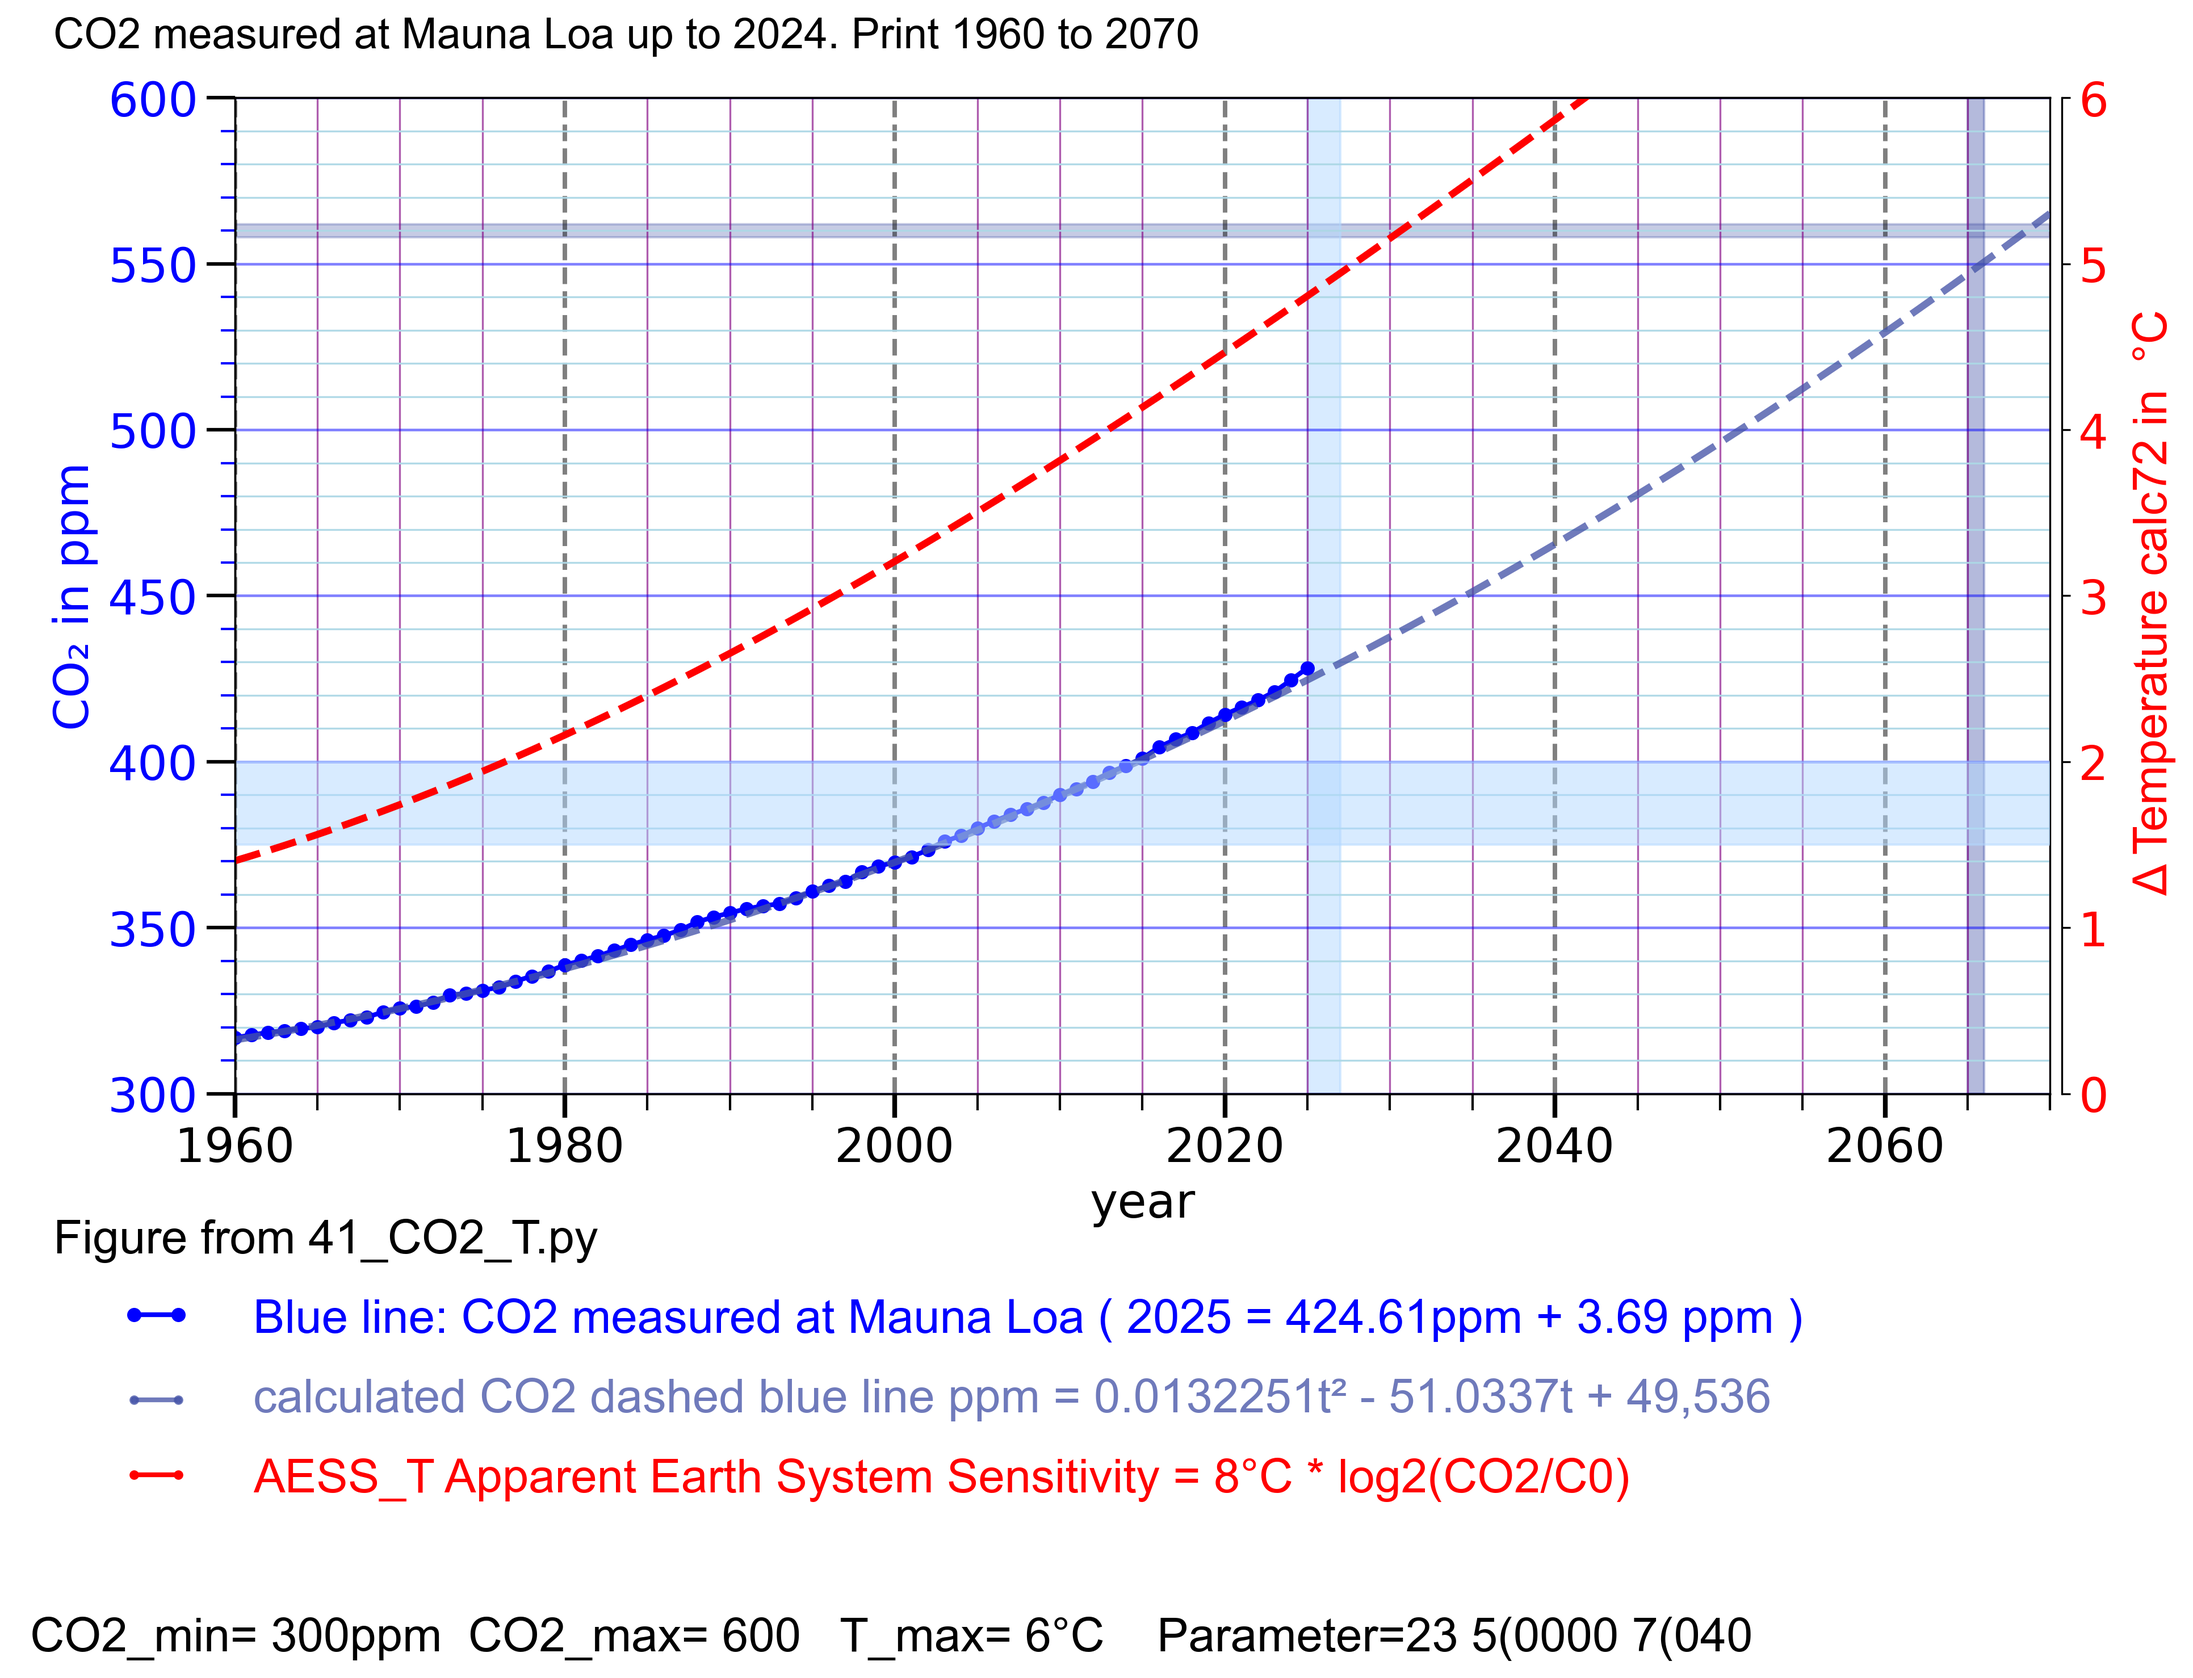
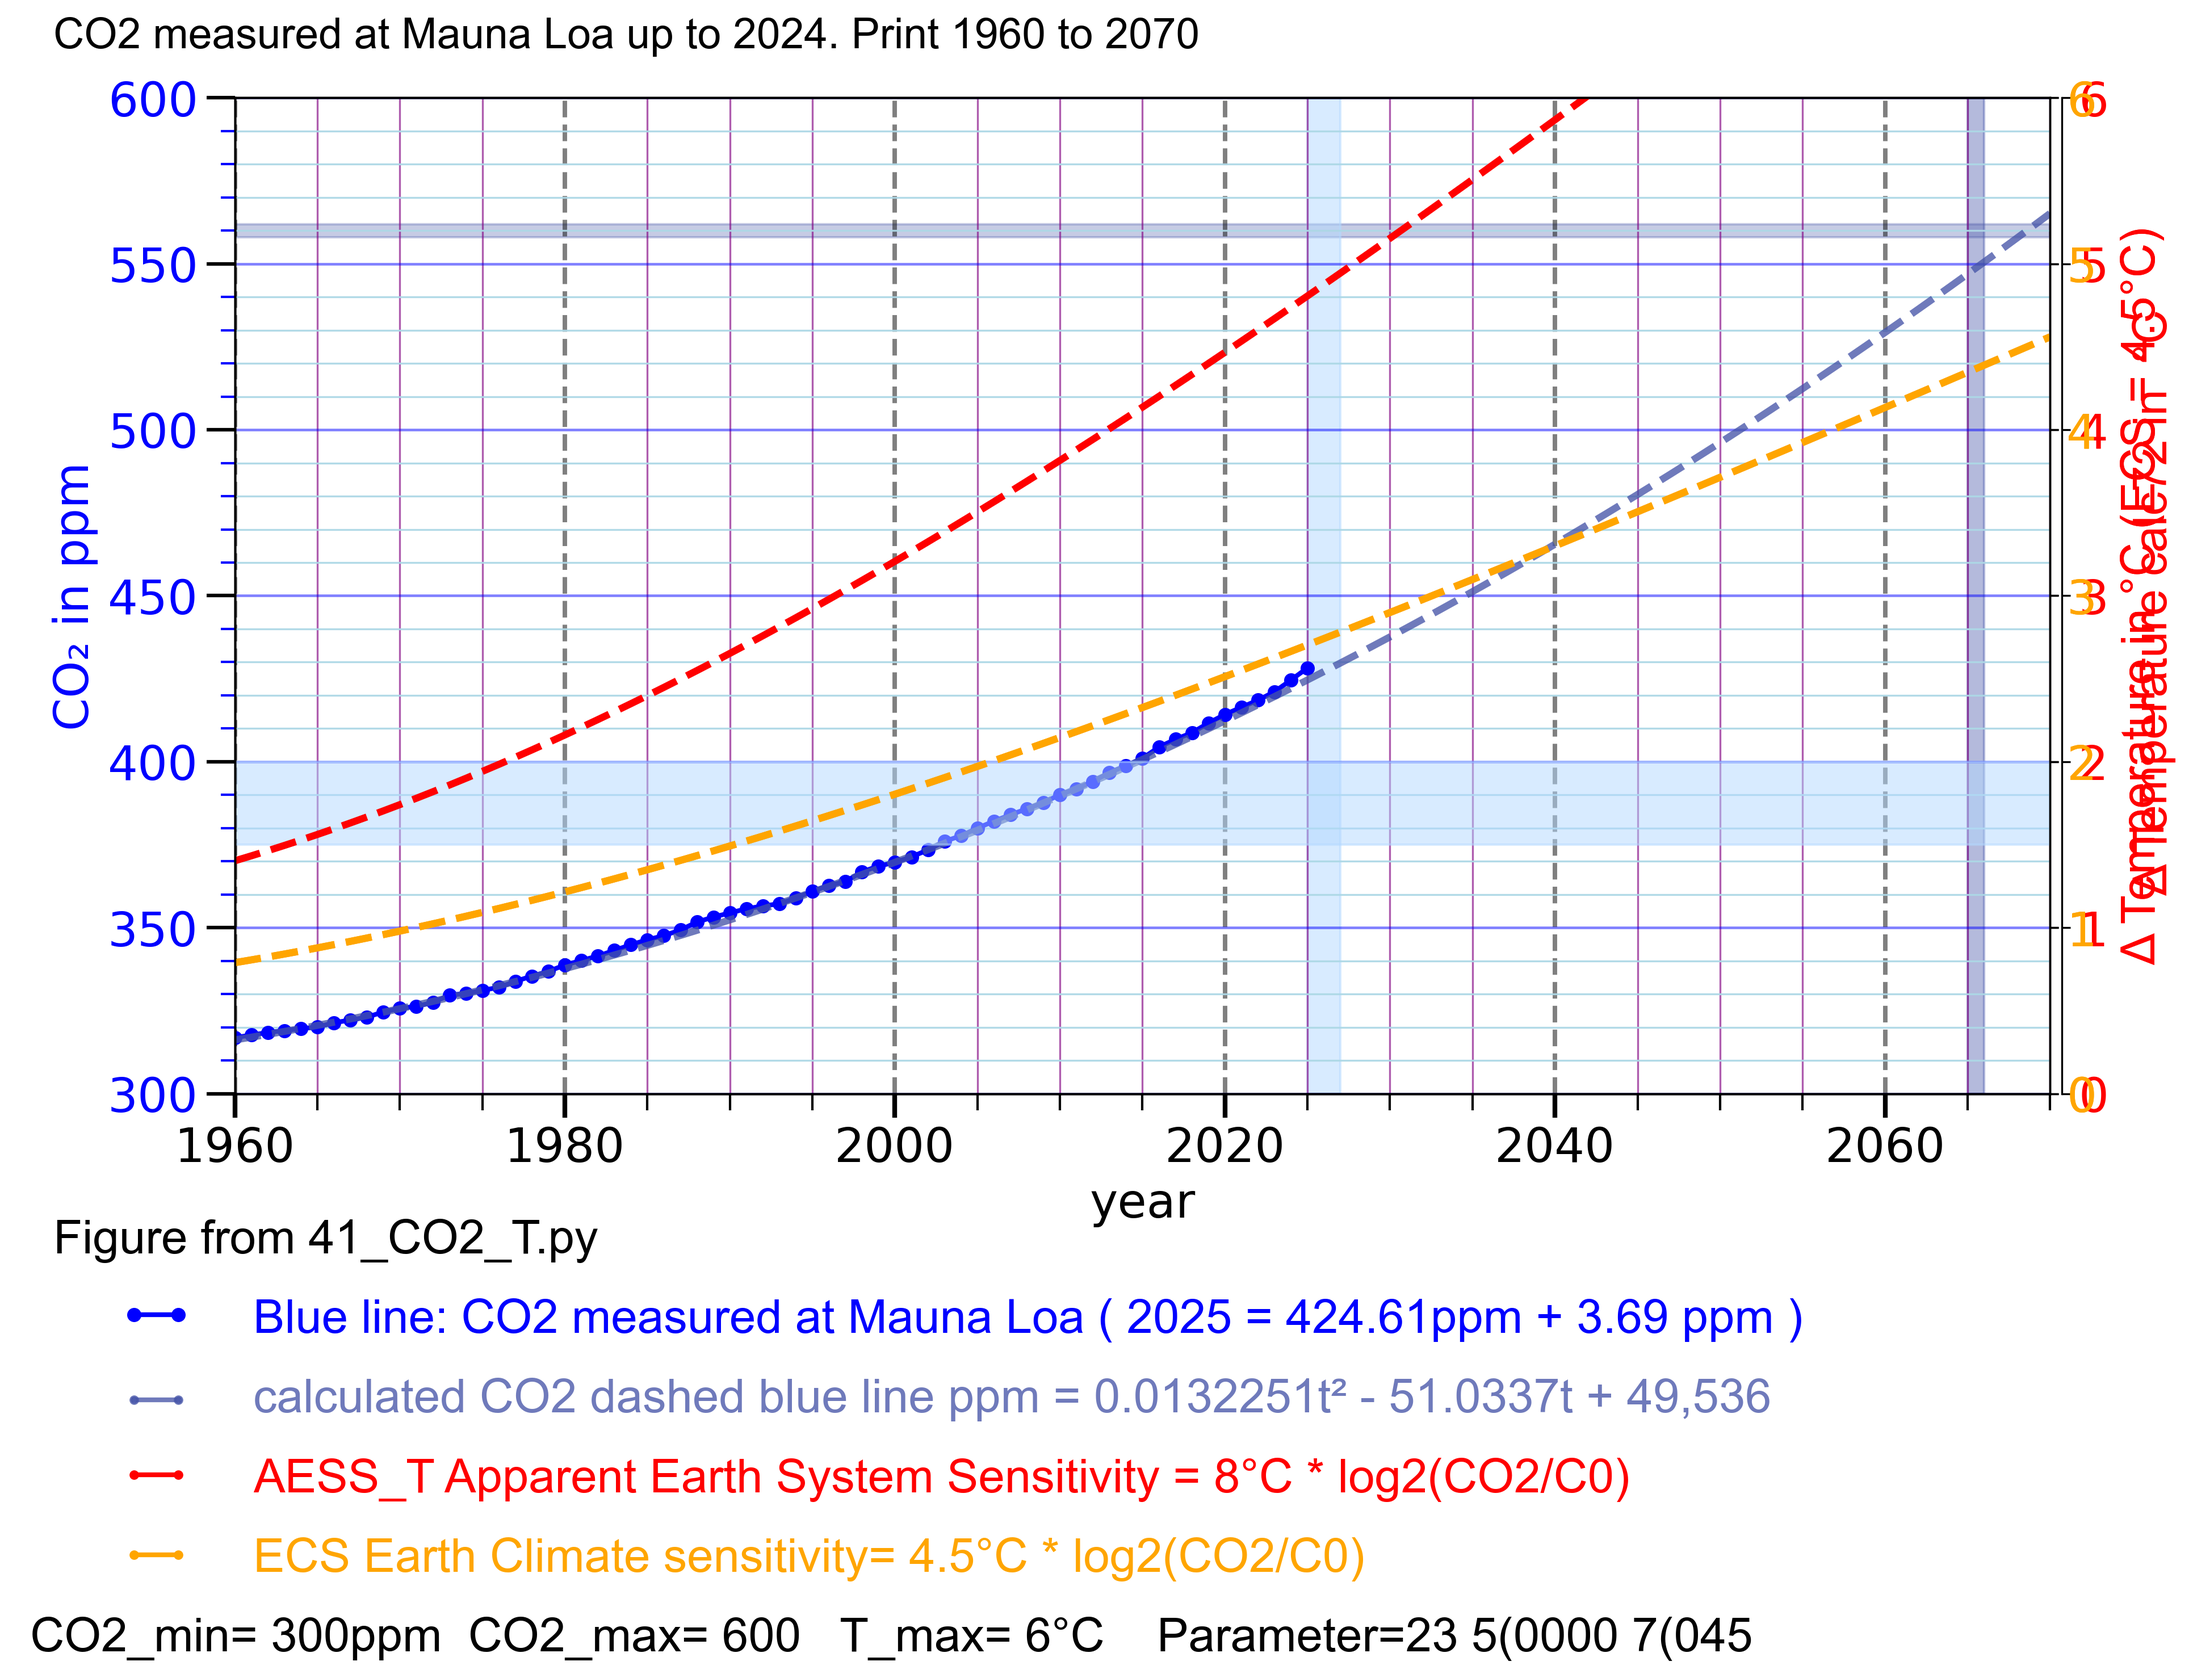
41v4_CO2_T.py 72 T

diff --git a/41_CO2_T.py b/41_CO2_T.py
@@ -1,4 +1,4 @@
-# 41v3_CO2_T.py 72 T
+# 41v4_CO2_T.py 72 T
 # Thomas Boettcher
 # part 1 configure 
 # part 2 plot CO2 Mauna Loa
@@ -44,7 +44,7 @@ c71 = "red" # plot71 color c71 = "green"
 plot72_AESS_T= 4 # 5,0 apparent Earth system sensitivity (AESS=7.7°C)
 if plot71_temperature < 1:    c72 = "red" # plot72 color
 else:                         c72 = "#DD3646A3" # plot72 color
-plot73_ECS_T= 0 # 6,5 #  Earth Climate sensitivity (ECS=4.5°C)
+plot73_ECS_T= 5 # 6,5 #  Earth Climate sensitivity (ECS=4.5°C)
 if plot71_temperature < 1 and plot72_AESS_T < 1:
    c73 = "red" # plot73 color
 else:   
@@ -360,19 +360,6 @@ if plot71_temperature > 0:
    ax71.plot(df7["Year71"], df7["Modeled71"], '--', label="T formula CO2=  K6", color=c71, linewidth=3)
    ax71.tick_params(axis="y", labelcolor=c71)
    ax71.set_ylim(y_Tmin, y_Tmax) # scale
-# 7.1.7 plot71 Achse und Beschriftung
-if plot71_temperature > 0:
-   if plot54_Glen_delta_on > 2:
-      ax71.spines.right.set_position(("outward", 50))
-   else:
-      ax71.spines.right.set_position(("outward", 5))
-   ax71.set_ylabel (
-         "Δ Temperature in °C ",
-         color=c71,
-         fontname="Arial",fontsize=20,
-         labelpad=10   # smaller = closer to y axis
-   )
-   ax71.tick_params(axis="y", labelcolor=c71, labelsize=20)
 # end 7.1 
 
 
@@ -437,14 +424,14 @@ df73 = pd.DataFrame({
        "Year73": years73,
        "Modeled73": T_73values })
 # 7.3.6 plot_ax73_temperature
-if plot73_ECS_T > 0:
+if plot73_ECS_T > 20:
    ax73 = ax1.twinx()  # twinx(): Shares the same x-axis Adds a new y-axis on the right
    ax73.plot(df73["Year73"], df73["Modeled73"], '--', label="T formula CO2=  K73", color=c73, linewidth=3)
    ax73.tick_params(axis="y", labelcolor=c73)
    ax73.set_ylim(y_Tmin, y_Tmax) # scale
    if plot71_temperature < 1: # make y axis right only if not exist
-      ax73.yaxis.set_major_locator(MultipleLocator(y_Tmayor_ticks))   # Hauptstriche
-      ax73.yaxis.set_minor_locator(MultipleLocator(y_Tminor_ticks))   # Nebenstriche
+      #ax73.yaxis.set_major_locator(MultipleLocator(y_Tmayor_ticks))   # Hauptstriche
+      #ax73.yaxis.set_minor_locator(MultipleLocator(y_Tminor_ticks))   # Nebenstriche
       ax73.minorticks_off()
       ax73.tick_params(axis='y', labelsize=20) # numbers on right y axis size 20
       ax73.set_ylabel (
@@ -459,8 +446,9 @@ if plot73_ECS_T > 0:
 # 8.2 print the headline above the plot
 # 8.3 print the left y axis 
 # 8.4 print the vertical lines CO2=constant
-# 8.5 print the x axis 
-# 8.6 print the horizontal lines year 2026
+# 8.5 print the right y axis
+# 8.6 print the x axis 
+# 8.7 print the horizontal lines year 2026
 
 # 8.1 scale the plot area
 # 8.1.2 scale the x axis
@@ -565,14 +553,46 @@ if plot71_temperature > 0:
 elif plot72_AESS_T > 0:
    ax72.axhspan(1.5, 2.0, color="#B3D9FF", alpha=0.5, zorder=0) # color="lightblue" 2°C streifen
 
+# 8.5 print the right y axis
+# 8.5.1 plot71 Achse und Beschriftung
+if plot71_temperature > 0:
+   if plot54_Glen_delta_on > 2:
+      ax71.spines.right.set_position(("outward", 50))
+   else:
+      ax71.spines.right.set_position(("outward", 5))
+   ax71.set_ylabel (
+         "Δ Temperature in °C ",
+         color=c71,
+         fontname="Arial",fontsize=20,
+         labelpad=10   # smaller = closer to y axis
+   )
+   ax71.tick_params(axis="y", labelcolor=c71, labelsize=20)
+
+elif plot73_ECS_T > 0:
+   ax73 = ax1.twinx()  # twinx(): Shares the same x-axis Adds a new y-axis on the right
+   ax73.plot(df73["Year73"], df73["Modeled73"], '--', label="T formula CO2=  K73", color=c73, linewidth=3)
+   ax73.tick_params(axis="y", labelcolor=c73)
+   ax73.set_ylim(y_Tmin, y_Tmax) # scale
+   if plot71_temperature < 1: # make y axis right only if not exist
+      #ax73.yaxis.set_major_locator(MultipleLocator(y_Tmayor_ticks))   # Hauptstriche
+      #ax73.yaxis.set_minor_locator(MultipleLocator(y_Tminor_ticks))   # Nebenstriche
+      ax73.minorticks_off()
+      ax73.tick_params(axis='y', labelsize=20) # numbers on right y axis size 20
+      ax73.set_ylabel (
+         "Δ Temperature in °C (ECS = 4.5°C)",
+         color=c71,
+         fontname="Arial",fontsize=20,
+         labelpad=10   # smaller = closer to y axis
+       )
 
 
-# 8.5 print the x axis 
-# 8.5.1 print year below the year numbers 
+
+# 8.6 print the x axis 
+# 8.6.1 print year below the year numbers 
 ax1.set_xlabel("year", fontsize=20 )
 plt.xticks(fontsize=20)
 ax1.tick_params(axis="x", labelcolor="black", labelsize=20) # 1960 2020 Achsenbeschriftung
-# 8.5.2 scale the x axis major 20 years
+# 8.6.2 scale the x axis major 20 years
 if x_end - x_anf < 5:
    x_mayor_ticks = 1
    x_minor_ticks = 0.5
@@ -588,27 +608,30 @@ elif x_end - x_anf < 120:
 else:
    x_mayor_ticks = 50
    x_minor_ticks = 10
-# 8.5.8 scale the x axis major 20 years
+# 8.6.8 scale the x axis major 20 years
 ax1.xaxis.set_major_locator(MultipleLocator(x_mayor_ticks))  # works
 ax1.tick_params(axis='x', which='major', length=10, width=2) # all 20 years
-# 8.5.9 scale the x axis minor 5 years
+# 8.6.9 scale the x axis minor 5 years
 ax1.xaxis.set_minor_locator(MultipleLocator(x_minor_ticks))   # no work
 ax1.tick_params(axis='x', which='minor', length=7,  width=1)
   
-# 8.6 print the horizontal lines year 2026
-# 8.6.1 vertical major grid all 20 years
+# 8.7 print the horizontal lines year 2026
+# 8.7.1 vertical major grid all 20 years
 for line in ax1.get_xgridlines():   # vertical lines
        line.set_color('black')          # vertical color
        line.set_alpha(0.5)
        line.set_linestyle('--')        # optional '--'
        line.set_linewidth(1.9)   # <-- thickness
-# 8.6.2 vertical minorlines all 5 years        
+# 8.7.2 vertical minorlines all 5 years        
 ax1.grid(True, which="minor", axis="x", color="purple", alpha=0.64)   # work vertical 5 years
-# 8.6.3 vertical line at year 2026
+# 8.7.3 vertical line at year 2026
 ax1.axvspan(2025, 2027, color="#B3D9FF", alpha=0.5, zorder=0) # vertical bar'
-# 8.6.4
+# 8.7.4
 ax1.axvspan(2065, 2066, color=c3, alpha=0.4, zorder=0) # vertical bar'
 ax1.axvspan(2174, 2175, color=c3, alpha=0.25, zorder=0) # vertical bar'
+
+
+
 # end part 8
 
 
@@ -627,7 +650,7 @@ plt.text(-0.1, tr1y, text_below1, color="black", fontname="Arial", fontsize=trs,
 
 # 9.2 print line 1 blue Mauna Loa data below the figure
 # 9.2 print line 2 below the plot explainations
-if plot1_CO2_Mauna_Loa == 3: # 8.5.1 legende world data plot1_CO2_Mauna_Loa
+if plot1_CO2_Mauna_Loa == 3: #  legende world data plot1_CO2_Mauna_Loa
    K1_text=" 2 new text )"
    plt.text(tr2x, tr2y, K1_text, color="blue", fontname="Arial", fontsize=18,
    transform=plt.gca().transAxes)
@@ -646,7 +669,7 @@ transform=plt.gca().transAxes)
 
 # 9.3 print line 3 below the plot explainations
 # 9.3.2 print line 3 plot55_population_on marker="s"
-if plot55_population_on == 3: # 8.5.1 legende world data plot1_CO2_Mauna_Loa
+if plot55_population_on == 3: #  legende world data plot1_CO2_Mauna_Loa
    line1 = Line2D([lr2x1, lr2x2], [lr3y, lr3y], # x coords in figure space (0–1)
    transform=fig.transFigure,
    marker="s", markersize=5, color="green", linewidth=2)
@@ -786,7 +809,7 @@ elif plot72_AESS_T == 4:
 
 
 # 9.5.2 print line 5 plot55_population_on marker="s"
-if plot55_population_on == 5: # 8.5.1 legende world data plot1_CO2_Mauna_Loa
+if plot55_population_on == 5: #  legende world data plot1_CO2_Mauna_Loa
    line1 = Line2D([lr2x1, lr2x2], [lr5y, lr5y], # x coords in figure space (0–1)
    transform=fig.transFigure,
    marker="s", markersize=5, color="green", linewidth=2)
@@ -916,17 +939,17 @@ plt.grid(True)
 plt.show()
 """
 # 8.4 legende Mauna Loa blau plot1_CO2_Mauna_Loa
-if plot1_CO2_Mauna_Loa > 6: # 8.5.1 legende world data plot1_CO2_Mauna_Loa
+if plot1_CO2_Mauna_Loa > 6: # 8.15.1 legende world data plot1_CO2_Mauna_Loa
    K1_text=" Blue: CO2 measured at Mauna Loa ( 2025 = 424.61ppm + 3.69 ppm )"
    plt.text(0.02, 0.95, K1_text, color="blue", fontname="Arial", fontsize=16,
    transform=plt.gca().transAxes)
    ax1.plot([x_anf+1, x_anf +2], [y_max -5, y_max -5], marker="o", markersize=5, color="blue", linewidth=2, label="short line")
-# 8.5 plot55_population_on = 1 # 0 keine Bevölkerung , 1 = Bevölkerung in grün
+# 8.15 plot55_population_on = 1 # 0 keine Bevölkerung , 1 = Bevölkerung in grün
 if plot1_CO2_Mauna_Loa > 8:
    if plot55_population_on > 0:
       plt.text(0.02, 0.90,"green: Human Population in billion K2", color="green", fontname="Arial", fontsize=14,
       transform=plt.gca().transAxes)
-# 8.6 legende
+# 8.16 legende
 if plot1_CO2_Mauna_Loa > 8:
    if plot52_delta_CO2_red_bars > 0:
       plt.text(0.02, 0.86," red bars: Mauna Loa yearly increase. //see right larger ppm scaling", color="red", fontname="Arial", fontsize=14,
